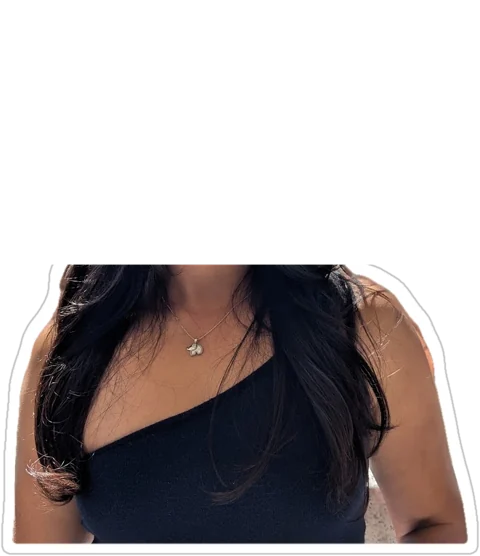
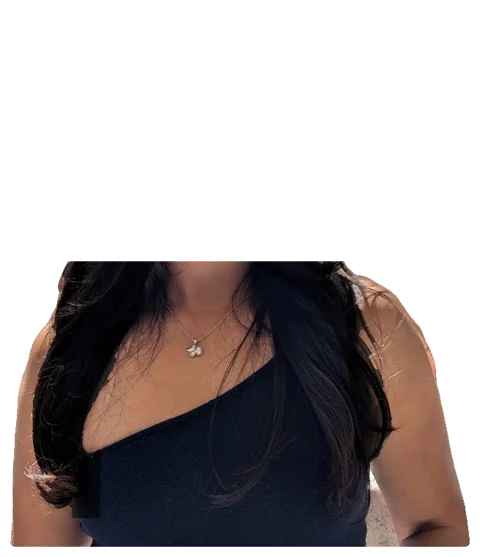
Why me cutout: separate hair layer, bigger head tilt, shoulder shrug, faster loop
Claude-Session: https://claude.ai/code/session_01GC3vSxPiEHdqQLqLq9626o

diff --git a/index.html b/index.html
@@ -1105,13 +1105,17 @@ footer nav a[href]{background:none!important;color:#E4E9EF!important;padding:0!i
 .ag-pop{position:absolute;right:40px;bottom:calc(100% - 84px);width:250px;aspect-ratio:480/556;z-index:0}
 .ag-pop img{position:absolute;inset:0;width:100%;height:100%}
 .ag-wrap .ag-card{position:relative;z-index:1}
-.ag-headl{transform-origin:44.9% 50.8%}
+.ag-headl{transform-origin:44.9% 50.9%}
+.ag-hair{transform-origin:44.9% 39%}
+.ag-body{transform-origin:50% 100%}
 @media (prefers-reduced-motion:no-preference){
-.ag-headl{animation:agNod 5s cubic-bezier(.5,0,.3,1.4) infinite}
-.ag-body{animation:agBob 5s ease-in-out infinite}
+.ag-headl{animation:agNod 2.6s cubic-bezier(.45,0,.3,1.5) infinite}
+.ag-hair{animation:agHair 2.6s cubic-bezier(.45,0,.3,1.4) infinite}
+.ag-body{animation:agShrug 2.6s ease-in-out infinite}
 }
-@keyframes agNod{0%,14%{transform:rotate(0)}18%,34%{transform:rotate(-8deg)}38%,54%{transform:rotate(6deg) translateY(-2px)}58%,62%{transform:rotate(-3deg)}66%,100%{transform:rotate(0)}}
-@keyframes agBob{0%,100%{transform:translateY(0)}50%{transform:translateY(-3px)}}
+@keyframes agNod{0%,6%{transform:rotate(0)}14%,34%{transform:rotate(-11deg) translateX(-3px)}42%,62%{transform:rotate(9deg) translate(3px,-3px)}70%,76%{transform:rotate(-3deg)}84%,100%{transform:rotate(0)}}
+@keyframes agHair{0%,10%{transform:rotate(0)}18%,36%{transform:rotate(-9deg) skewX(4deg)}46%,64%{transform:rotate(8deg) skewX(-4deg)}74%,80%{transform:rotate(-2deg)}88%,100%{transform:rotate(0)}}
+@keyframes agShrug{0%,8%{transform:translateY(0) rotate(0)}16%,32%{transform:translateY(-7px) rotate(-2.5deg)}44%,60%{transform:translateY(-4px) rotate(2.5deg)}72%,100%{transform:translateY(0) rotate(0)}}
 @media (max-width:900px){.ag-wrap{margin-top:140px}.ag-pop{width:170px;right:14px;bottom:calc(100% - 56px)}}
 </style>
 </head>
@@ -1196,7 +1200,7 @@ footer nav a[href]{background:none!important;color:#E4E9EF!important;padding:0!i
 <section id="agency" class="ag">
 <div class="ag-in">
 <div class="ag-head reveal"><span class="wn-kick">Why me</span><h2>Not your typical agency.</h2><p>Agencies sell virality. I build trust that lasts.</p></div>
-<div class="ag-wrap"><div class="ag-pop" aria-hidden="true"><img class="ag-body" src="img/me-body.webp" alt=""><img class="ag-headl" src="img/me-head.webp" alt=""></div><div class="ag-card reveal">
+<div class="ag-wrap"><div class="ag-pop" aria-hidden="true"><img class="ag-body" src="img/me-body.webp" alt=""><img class="ag-hair" src="img/me-hair.webp" alt=""><img class="ag-headl" src="img/me-head.webp" alt=""></div><div class="ag-card reveal">
 <div class="ag-row ag-top"><span></span><span class="ag-th"><span class="ag-team" aria-hidden="true"><i></i><i></i><i></i></span>Typical agency</span><span class="ag-th ag-me">With me</span></div>
 <div class="ag-row"><span class="ag-k">Who you work with</span><span class="ag-old">A non-technical agency team</span><span class="ag-new">A former product manager and marketer who gets your product</span></div><div class="ag-row"><span class="ag-k">What you get</span><span class="ag-old">Virality that doesn’t last</span><span class="ag-new">Proof that builds lasting trust</span></div><div class="ag-row"><span class="ag-k">How it’s scoped</span><span class="ag-old">Retainers with no end date</span><span class="ag-new">Clear timeline, clear deliverables</span></div>
 </div>
